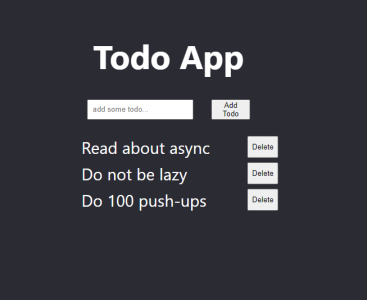
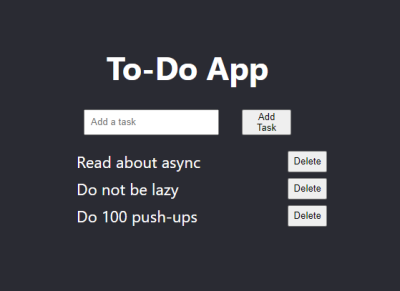
added a new alert component

Changed region(s): [[0.1798, 0.1237, 0.8392, 0.8041]]

diff --git a/src/App.js b/src/App.js
@@ -2,6 +2,7 @@ import React, {useState} from 'react';
 import './App.css';
 import Todo from './components/Todo/Todo';
 import TodoForm from './components/TodoForm/TodoForm';
+import ShowAlert from './components/showAlert/ShowAlert';
 
 
 const App = () => {
@@ -24,7 +25,9 @@ const App = () => {
      }
   ]);
 
-  const [newTodo, setNewTodo] = useState('');  
+  const [newTodo, setNewTodo] = useState('');    
+  const [showAlert, setShowAlert] = useState(false);  
+  
 
  const addTodo = (event) => {
     event.preventDefault();
@@ -37,16 +40,17 @@ const App = () => {
  
     // check if the input is empty
     if(todoObject.name === ''){
-       alert('Add some activites');
+      setShowAlert(true)
     } else {
       setTodo(todos.concat(todoObject));
+      setShowAlert(false)
     }
-    setNewTodo(''); // clear input field            
+    setNewTodo(''); // clear input field           
   }
   
   
-  const handleTodoChange = (event) => {        
-    setNewTodo(event.target.value);      
+  const handleTodoChange = (event) => {     
+    setNewTodo(event.target.value);   
   }
 
   const deleteTodo = (index) => {   
@@ -64,7 +68,8 @@ const App = () => {
 
   return (
     <div className='App-header'>
-      <h1>Todo App</h1>
+      <h1>To-Do App</h1>
+      {showAlert? <ShowAlert/> : null }    
       <TodoForm addTodo = {addTodo} handleTodoChange = {handleTodoChange} newTodo = {newTodo}/> 
       
       <ul>

diff --git a/public/index.html b/public/index.html
@@ -5,10 +5,7 @@
     <link rel="icon" href="%PUBLIC_URL%/favicon.ico" />
     <meta name="viewport" content="width=device-width, initial-scale=1" />
     <meta name="theme-color" content="#000000" />
-    <meta
-      name="description"
-      content="Web site created using create-react-app"
-    />
+    <meta name="description" content="Web site created using create-react-app" />
     <link rel="apple-touch-icon" href="%PUBLIC_URL%/logo192.png" />
     <!--
       manifest.json provides metadata used when your web app is installed on a
@@ -24,7 +21,7 @@
       work correctly both with client-side routing and a non-root public URL.
       Learn how to configure a non-root public URL by running `npm run build`.
     -->
-    <title>React App</title>
+    <title>To-Do App</title>
   </head>
   <body>
     <noscript>You need to enable JavaScript to run this app.</noscript>

diff --git a/src/components/TodoForm/TodoForm.jsx b/src/components/TodoForm/TodoForm.jsx
@@ -8,8 +8,8 @@ const TodoForm = ({addTodo, newTodo, handleTodoChange}) => {
                      <input type='text' 
                             value = {newTodo}
                             onChange = {handleTodoChange}
-                            placeholder = 'add some todo...'  />
-        <button type='sumbit'>Add Todo</button>                        
+                            placeholder = 'Add a task'  />
+        <button type='sumbit'>Add Task</button>                        
 
         </form>
         </div>

diff --git a/src/components/showAlert/ShowAlert.jsx b/src/components/showAlert/ShowAlert.jsx
@@ -1,0 +1,7 @@
+import React from 'react';
+
+const ShowAlert = () =>(
+        <p className='showAlert'>Write a task first</p>
+  ) 
+
+export default ShowAlert;

diff --git a/src/App.css b/src/App.css
@@ -36,3 +36,7 @@ button {
   text-decoration: line-through;
   cursor: pointer;
 }
+
+.showAlert {
+  color: rgb(241, 72, 72);
+}

diff --git a/README.md b/README.md
@@ -6,7 +6,7 @@
 
 </div>
 
-## In this project it's not about the styling, it's more about functionality, how React Hooks is working
+## In this project it's not about the styling, it's more about functionality, how React Hooks works
 
 In the project directory, you can run:
 
